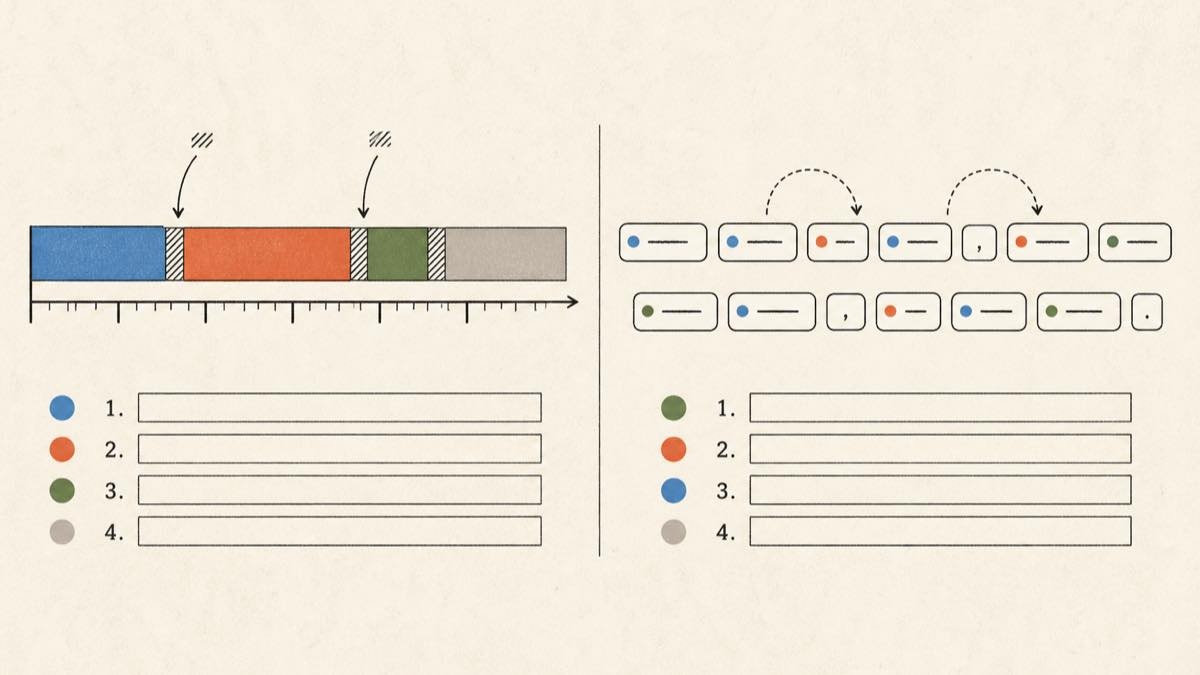
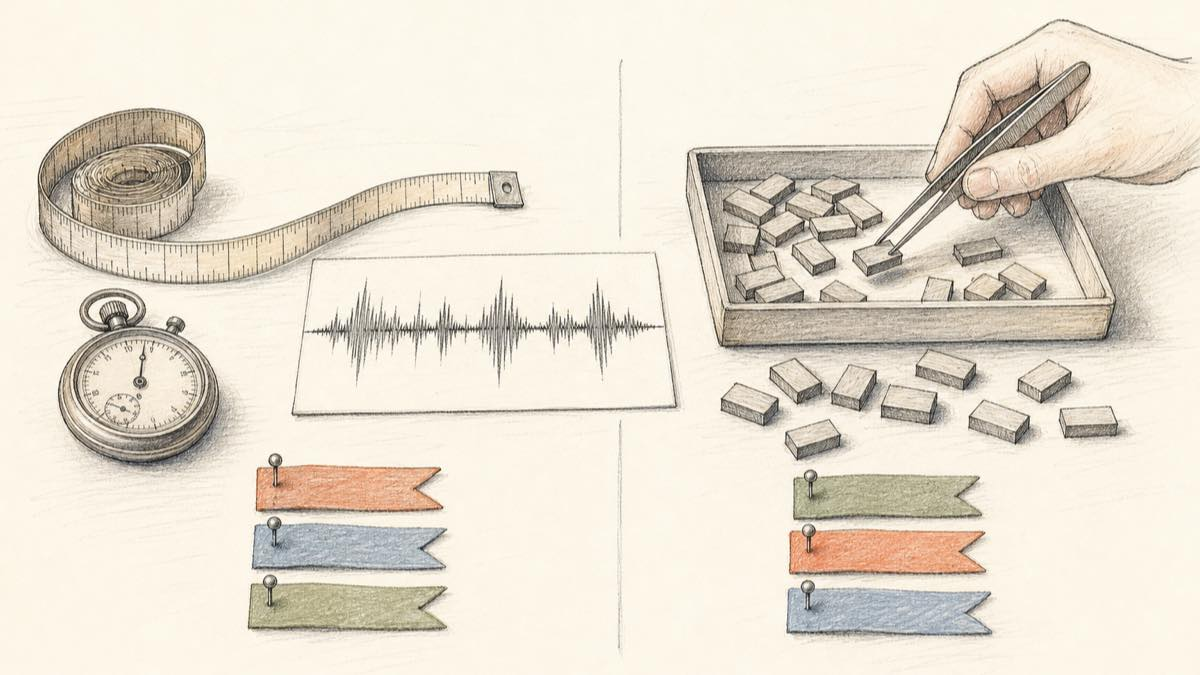
content: redraw illustrations in house ink-and-wash style
The first set were flat vector infographics — bar charts, ruled tables,
waveform plots. That contradicts content/zThink/AGENTS.md, which asks for
"elegant analogy-based editorial images over literal tech charts when the
goal is conceptual understanding", and diverged from the visual language of
the existing posts (hand-drawn ink and wash, physical objects in a scene,
serif title).

Redrawn as analogies, each visually QC'd at final crop:

- cover: four measuring instruments disagreeing over one waveform card, with
  a fingertip quietly pressing one scale pan; serif title, left-aligned
- 01: two teacups, a ledger stamped identically on every line, a stereo cable
  merging into one strand
- 02: five trophies, each pinning its own rosette
- 03: the same card measured by tape-and-stopwatch vs sorted word tiles, with
  ranking ribbons in different orders
- 04: four jars of progressively hopeless tangled thread
- 05: price tags, some with an add-on tag tied beneath, some with the feature
  already sealed in
- 06: a ledger ending at a torn edge beside an uninked Chinese name seal

Alt text rewritten to match. 67-108 KB each, 636 KB total.

diff --git a/_posts/2026-08-27-speech-to-text-apis-august-2026.md b/_posts/2026-08-27-speech-to-text-apis-august-2026.md
@@ -24,7 +24,7 @@ tags:
 
 ## The bug that started this
 
-![Two stereo waveform lanes with identical shapes above a flat left-minus-right difference line, beside a transcript in which every row carries the same single speaker marker](/assets/blogposts/2026-08-27-speech-to-text-apis-august-2026/speech-to-text-apis-2026-01-dual-mono.jpg)
+![Two teacups facing each other across a desk beside an open ledger in which every single line has been marked with the same identical stamp, and a stereo cable whose two strands merge into one](/assets/blogposts/2026-08-27-speech-to-text-apis-august-2026/speech-to-text-apis-2026-01-dual-mono.jpg)
 
 An 87-minute two-person phone call, recorded through a meeting bot, came back as a clean transcript: 777 sentences, correct words, good punctuation. Every single sentence was attributed to one speaker.
 
@@ -36,7 +36,7 @@ So I went looking for a benchmark that would tell me which API to use instead. T
 
 ## Five roundups, five winners
 
-![Five identical award podiums built from bar charts, each crowning a different bar in orange, showing five vendor benchmarks that disagree about the winner](/assets/blogposts/2026-08-27-speech-to-text-apis-august-2026/speech-to-text-apis-2026-02-five-winners.jpg)
+![Five identical brass trophies in a row, each with a hand reaching from behind it to pin a blank award rosette onto itself](/assets/blogposts/2026-08-27-speech-to-text-apis-august-2026/speech-to-text-apis-2026-02-five-winners.jpg)
 
 Search for the best speech-to-text API in 2026 and you will get a well-written, confident, comparison-table-bearing article. It will almost always be published by one of the companies in the comparison.
 
@@ -58,7 +58,7 @@ Same two companies. Opposite conclusions. Both charts are real, and I opened bot
 
 ## Why the metric decides the ranking
 
-![The same recording measured as a time ruler on the left and as word tokens on the right, each producing a ranked list in a different order](/assets/blogposts/2026-08-27-speech-to-text-apis-august-2026/speech-to-text-apis-2026-03-der-vs-cpwer.jpg)
+![One waveform card measured on the left by a tape measure and stopwatch and on the right by word tiles sorted with tweezers, with three ranking ribbons pinned below each in a different order](/assets/blogposts/2026-08-27-speech-to-text-apis-august-2026/speech-to-text-apis-2026-03-der-vs-cpwer.jpg)
 
 The two charts disagree partly because they measure different things, and the difference is the single most useful concept here.
 
@@ -80,7 +80,7 @@ Credit where it is due: the author states outright that he runs Voice AI at Asse
 
 ## The reality check nobody markets
 
-![A grouped bar chart in which error rates climb for every system as audio moves from quiet speech to restaurants, meetings and web video](/assets/blogposts/2026-08-27-speech-to-text-apis-august-2026/speech-to-text-apis-2026-04-hard-audio.jpg)
+![Four glass jars holding progressively more tangled coloured thread, the last overflowing, with a magnifying glass showing the tangle is no clearer up close](/assets/blogposts/2026-08-27-speech-to-text-apis-august-2026/speech-to-text-apis-2026-04-hard-audio.jpg)
 
 The most useful number I found in a vendor benchmark is one that makes the whole category look bad.
 
@@ -128,7 +128,7 @@ The leaderboard has one limitation you must not overlook: it covers **English an
 
 ## What it actually costs
 
-![A row of hanging price tags, some carrying an added orange surcharge sticker and others with the same feature already printed in, illustrating bundled versus add-on pricing](/assets/blogposts/2026-08-27-speech-to-text-apis-august-2026/speech-to-text-apis-2026-05-price-tags.jpg)
+![A row of blank paper price tags hanging from a string, some with a second smaller tag tied beneath as an add-on and others with a wax seal already pressed into the tag itself](/assets/blogposts/2026-08-27-speech-to-text-apis-august-2026/speech-to-text-apis-2026-05-price-tags.jpg)
 
 Prices normalized to US dollars per hour of audio, read from each vendor's pricing page on 2026-08-27. The diarization column is the one people get wrong.
 
@@ -170,7 +170,7 @@ Two more from the same page: diarization supports [up to 8 speakers, with 3 or m
 
 ## Chinese, and what the leaderboards will not tell you
 
-![A ranked leaderboard table ending at a torn paper edge, with an unmeasured Chinese character block sitting in the blank space beyond it](/assets/blogposts/2026-08-27-speech-to-text-apis-august-2026/speech-to-text-apis-2026-06-missing-column.jpg)
+![An open ledger whose ruled columns end at a torn page edge, beside a carved stone Chinese name seal and an open pot of red seal paste on an unmarked desk](/assets/blogposts/2026-08-27-speech-to-text-apis-august-2026/speech-to-text-apis-2026-06-missing-column.jpg)
 
 The neutral scoreboard covers no Chinese. The vendor pages that do are the weakest evidence in this entire survey, and ElevenLabs' Mandarin page is the clearest example of why.
 
